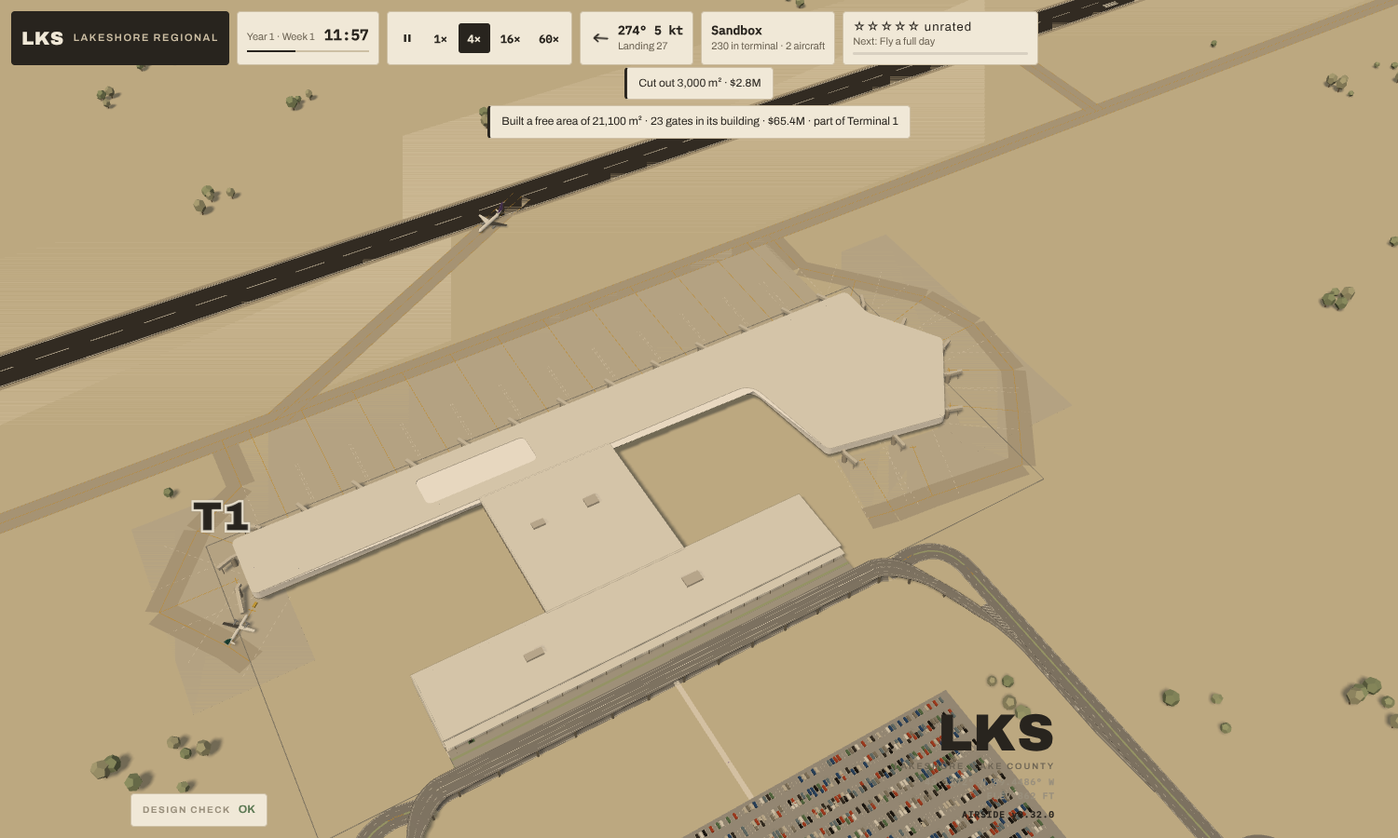
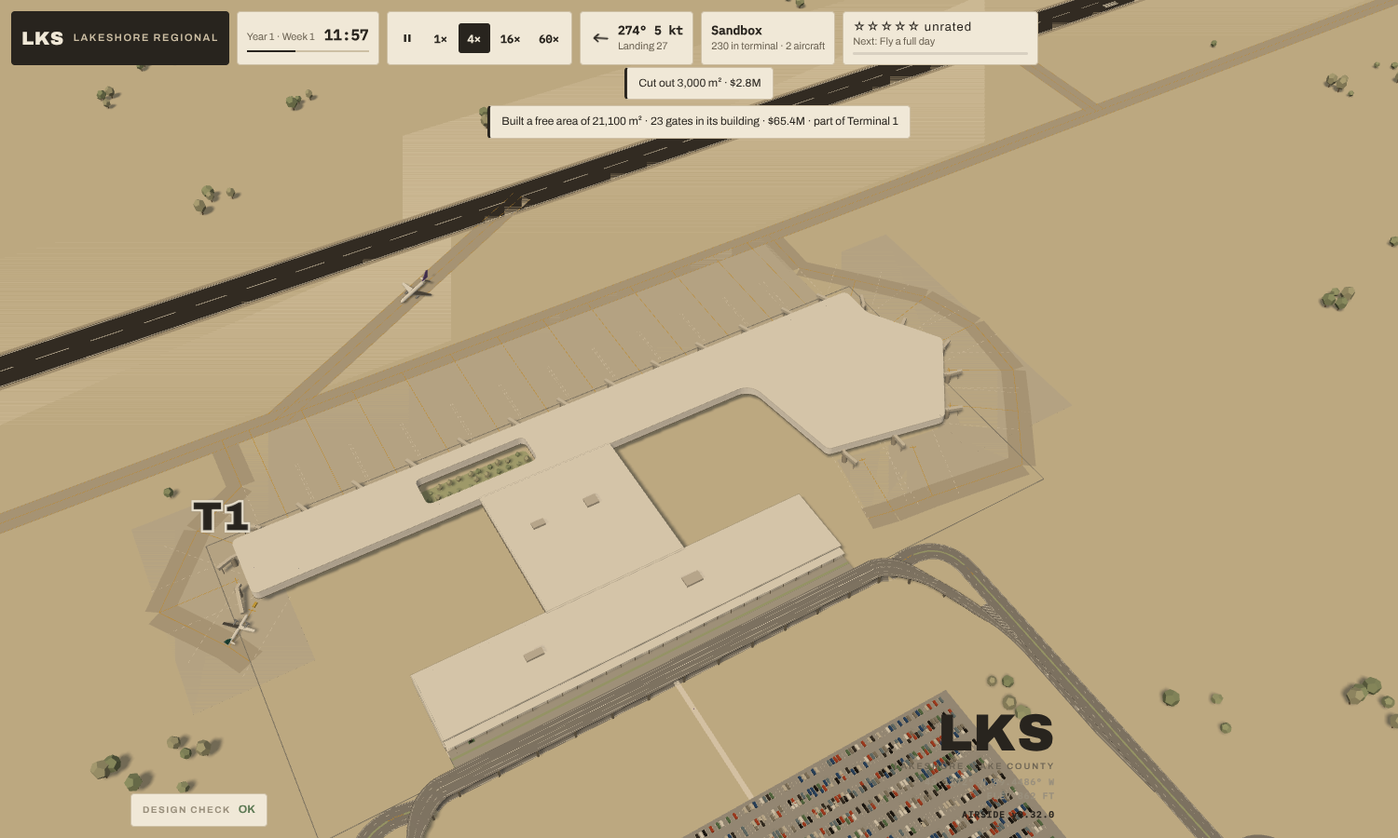
v0.32: fixes from review
Cut-outs that split a building or cover a piece's middle keep every part; a
cut-out is taken by overlap, not by corners, and only cut-outs that take floor
remove lots. Undo of the first cut-out, free-area costs and refunds by true
floor area, taxiways through a free area's empty box, a point inside thin
outlines, landside walls along a free area's edges, open interiors in 3D,
cut-outs going with their building, and hints.

Claude-Session: https://claude.ai/code/session_01XxijruEnEziLvLsYMktvW3

diff --git a/src/ui.ts b/src/ui.ts
@@ -72,7 +72,7 @@ const isWay = (t: Tool): t is WayKind => t === 'taxi' || t === 'road' || t === '
 export interface Controls { speed: number; paused: boolean; hold?: boolean; save(): void; loadSample(): void; clearSite(): void }
 /** How far a grip can take a shape. */
 /** The floor a zone was paid for: a bent pier's or a hub's true outline, not its box. */
-const floorArea = (z: Zone) => (z.bend || z.sides || z.taper ? polyArea(zonePts(z)) : z.w * z.h);
+const floorArea = (z: Zone) => (z.bend || z.sides || z.taper || z.poly ? polyArea(zonePts(z)) : z.w * z.h);
 const GRIP: GripLimits = { minLen: PIER.minLen, minWide: 30, maxWide: 120, minDia: HALL.minDia, maxDia: HALL.maxDia, snapDeg: PIER.snapDeg };
 
 export class UI {
@@ -590,7 +590,7 @@ export class UI {
       const u = this.sim.d.units.get(z.id); const deg = Math.round(((g.rot ?? 0) * 180) / Math.PI);
       const arc = arcOf(g);
       const ends = g.taper ? ` · ${n0(endWidths(g)[0])} m wide at one end, ${n0(endWidths(g)[1])} m at the other` : '';
-      const size0 = g.sides ? `${n0(g.w)} m across` : arc ? `${n0(arc.La)} m round the bend × ${n0(g.h)} m · centreline radius ${n0(arc.R)} m` : `${n0(g.w)} × ${n0(g.h)} m${g.rot && Math.abs(g.rot) > 1e-3 ? ` at ${deg}°` : ''}`;
+      const size0 = g.poly ? `${n0(polyArea(g.poly))} m², ${g.poly.length} corners` : g.sides ? `${n0(g.w)} m across` : arc ? `${n0(arc.La)} m round the bend × ${n0(g.h)} m · centreline radius ${n0(arc.R)} m` : `${n0(g.w)} × ${n0(g.h)} m${g.rot && Math.abs(g.rot) > 1e-3 ? ` at ${deg}°` : ''}`;
       const size = size0 + ends;
       const count = z.type === 'concourse' ? ` · ${u?.count ?? 0} gates` : u ? ` · ${u.max} ${ZONES[z.type].unit}` : '';
       this.hint(ok ? `${size}${count}${cost > 0 ? ` · ${money(cost)}` : cost < 0 ? ` · ${money(-cost * 0.4)} back` : ''} · release to keep, Esc to put it back` : dr.reason!, !ok);
@@ -730,7 +730,7 @@ export class UI {
         const chk = TURNABLE.has(z.type) ? this.placeGeom(z, { ...geomOf(z), x: r.x, y: r.y }) : canPlacePier(this.world, { ...r, level: z.level }, z.id);
         dr.liveOk = chk.ok; dr.reason = chk.reason;
         if (chk.ok) { this.liveSet(z, { ...geomOf(z), x: r.x, y: r.y }); this.ren.ghost = null; } else this.ren.ghost = { kind: 'zone', rect: r, ok: false };
-        this.hint(chk.ok ? `Move the ${z.sides ? 'hub' : TURNABLE.has(z.type) ? ZONES[z.type].short.toLowerCase() : 'pier'} · release to place (free), Esc to put it back` : chk.reason!, !chk.ok);
+        this.hint(chk.ok ? `Move the ${z.sides ? 'hub' : z.poly ? 'free area' : TURNABLE.has(z.type) ? ZONES[z.type].short.toLowerCase() : 'pier'} · release to place (free), Esc to put it back` : chk.reason!, !chk.ok);
         return;
       }
       const r = this.magnetMove({ x: p.x - dr.off!.x, y: p.y - dr.off!.y, w: z.w, h: z.h }, z.level, z.id);
@@ -808,6 +808,7 @@ export class UI {
     return null;
   }
   gripHint(z: Zone, grip: Grip) {
+    if (grip.startsWith('v')) return 'Drag this corner of the free area · its stands, hall and the building it joins follow';
     if (grip === 't') return `Drag to turn the ${ZONES[z.type].short.toLowerCase()} about its centre, in 5° steps · square to the grid it is upright again`;
     if (grip === 'r') return z.sides! >= 24 ? 'Drag to make the hub wider or narrower' : 'Drag a corner to resize and turn the hub';
     if (grip === 'a' || grip === 'b') return 'Drag this end to stretch and swing the pier · the other end stays where it is';
@@ -834,7 +835,7 @@ export class UI {
     // every square metre carries what was paid for it: the fit-out tier, a mezzanine, garage decks
     const rate = (q: Zone) => ZONES[q.type].costPerM2 + (q.tier ? ZONES[q.type].tierCostPerM2 : 0) + (q.mezz ? GROWTH.mezzCostPerM2 * 0.3 : 0) + Math.max(0, (q.floors ?? 1) - 1) * GROWTH.deckCostPerM2;
     const tw = this.twin(z);
-    return (g.sides || g.bend || g.taper ? polyArea(zonePts(g)) : g.w * g.h) * (rate(z) + (tw ? rate(tw) : 0));
+    return (g.sides || g.bend || g.taper || g.poly ? polyArea(zonePts(g)) : g.w * g.h) * (rate(z) + (tw ? rate(tw) : 0));
   }
   // ------------------------------------------------------------ a path of piers (v0.22)
   //
@@ -1239,7 +1240,9 @@ export class UI {
   restore(s: string) {
     this.endLive(false); this.drag = null;
     const o = JSON.parse(s) as { w: World; m: number };
-    Object.assign(this.sim.world, o.w); this.sim.money = o.m;
+    // (the optional lists go first: a snapshot taken before the first cut-out, say, has none to put back)
+    const ws = this.sim.world; delete ws.cuts; delete ws.rounds; delete ws.sites;
+    Object.assign(ws, o.w); this.sim.money = o.m;
     this.ren.selected = null; this.ren.hover = null;
     if (this.ren.focus !== null && !this.world.sites?.some(q => q.id === this.ren.focus)) this.setLod('landside', null);
     this.sim.relayout(); this.refresh(true); this.ctl.save(); this.snap = s;
@@ -1455,6 +1458,11 @@ export class UI {
     } else {
       const r = this.world.runways.find(q => q.id === h.id)!; refund = runwayCost(r.a, r.b) * 0.4; what = 'Runway';
       this.world.runways = this.world.runways.filter(q => q.id !== h.id);
+    }
+    // (v0.32: a cut-out goes with the last building it took floor from; it is not left to cut whatever is built there next)
+    if ((h.kind === 'zone' || h.kind === 'site') && this.world.cuts?.length) {
+      const conc = this.world.zones.filter(z => z.type === 'concourse');
+      this.world.cuts = this.world.cuts.filter(k => conc.some(z => z.level === k.level && zonesOverlap({ ...polyBox(k.pts), poly: k.pts }, z)));
     }
     if (this.sim.moneyOn) this.sim.money += refund;
     if (h.kind !== 'way') this.toast(`${what} demolished · ${money(refund)} back`, 'warn');
@@ -1716,7 +1724,7 @@ export class UI {
       <p class="muted">${def.blurb}</p>
       <dl class="kv">
         ${z.taper ? `<dt>Taper</dt><dd>${n0(endWidths(z)[0])} m wide at its west end, ${n0(endWidths(z)[1])} m at its east end (of its own frame)</dd>` : ''}
-        <dt>Size</dt><dd>${arcOf(z) ? `${n0(arcOf(z)!.La)} m round the bend × ${n0(z.h)} m · radius ${n0(arcOf(z)!.R)} m · ${n0(polyArea(zonePts(z)))} m²` : `${n0(z.w)} × ${n0(z.h)} m · ${n0(floorArea(z))} m²`}</dd>
+        <dt>Size</dt><dd>${arcOf(z) ? `${n0(arcOf(z)!.La)} m round the bend × ${n0(z.h)} m · radius ${n0(arcOf(z)!.R)} m · ${n0(polyArea(zonePts(z)))} m²` : z.poly ? `${n0(floorArea(z))} m² · ${z.poly.length} corners` : `${n0(z.w)} × ${n0(z.h)} m · ${n0(floorArea(z))} m²`}</dd>
         ${(() => { const T = s.d.termOf.get(z.id); return T ? `<dt>Terminal</dt><dd class="${T.active ? '' : 'bad'}">${T.name} · ${T.active ? 'open' : 'closed'}</dd>` : ''; })()}
         ${z.type === 'concourse' ? this.gateSidesHTML(z) : ''}
         ${u.max && z.type !== 'concourse' && !z.auto ? `<dt>${z.type === 'claim' ? 'Carousels built' : def.unit[0].toUpperCase() + def.unit.slice(1)}</dt><dd>

diff --git a/src/render3d.ts b/src/render3d.ts
@@ -464,6 +464,7 @@ export class Renderer3D {
     }
 
     // v0.23: a building of several pieces gets one roof over all of them, to its rounded outline
+    const openSite = (z: Zone) => lod === 'terminal' && (focus === null || siteOf(sim.world, z)?.id === focus || d.termOf.get(z.id)?.site?.id === focus);
     // (v0.32: a building with a free area in it, or a cut-out taken from it, is modelled from its outline alone:
     // a plinth, glass walls round every ring, courtyards included, and the roof, with no boxes of its pieces)
     const freeIds = new Set<number>();
@@ -473,17 +474,18 @@ export class Renderer3D {
       const free = sh.cut || sh.ids.some(id => d.zones.find(z => z.id === id)?.poly);
       if (free) {
         sh.ids.forEach(id => freeIds.add(id));
-        add3(extrudeShape(sh.rings, L1.z0, L1.z0 + 0.7, PLINTH));
-        for (const r of sh.rings) add3(prism(r, L1.z0 + 0.7, L1.z1 - 1.1, GLASS.concourse, this.glassMat));
-        add3(extrudeShape(sh.rings, L1.z1 - 1.1, L1.z1 - 0.3, ROOF));
+        const open = sh.ids.some(id => { const q = d.zones.find(z => z.id === id); return !!q && openSite(q); });
+        // (opened up: the floor to the outline, no roof, so the fit-out shows)
+        add3(extrudeShape(sh.rings, L1.z0, L1.z0 + (open ? 0.5 : 0.7), open ? MOD_COL.concourse : PLINTH));
+        for (const r of sh.rings) add3(prism(r, L1.z0 + 0.7, L1.z1 - 1.1, GLASS.concourse, this.glassMat, false));   // (walls only: a fan cap is wrong on a concave outline)
+        if (!open) add3(extrudeShape(sh.rings, L1.z1 - 1.1, L1.z1 - 0.3, ROOF));
       } else if (sh.ids.length > 1) add3(extrudeShape(sh.rings, L1.z1 - 0.5, L1.z1 + 0.25, ROOF));
     }
     // ---- buildings: a glazed box under a white roof, or opened up (glass walls, floor and fit-out)
-    const openSite = (z: Zone) => lod === 'terminal' && (focus === null || siteOf(sim.world, z)?.id === focus || d.termOf.get(z.id)?.site?.id === focus);
     const solid: Box[] = []; const glazing: Box[] = []; const see: Box[] = []; const fit: Box[] = []; const roofs: Box[] = [];
     for (const z of d.zones) {
       if (!ZONES[z.type].terminal || rising.has(z.id)) continue;
-      if (freeIds.has(z.id)) continue;
+      if (freeIds.has(z.id) && !openSite(z)) continue;   // (its envelope is the outline's; opened up, its floor and fit-out are its own)
       const L = LEVELS[z.level];
       const sel = this.ren.selected?.kind === 'zone' && this.ren.selected.id === z.id;
       if (z.sides) {
@@ -512,10 +514,11 @@ export class Renderer3D {
         continue;
       }
       const c = sel ? '#8FB0C6' : MOD_COL[z.type];
-      if (z.level > this.ren.level) { see.push({ ...z, z0: L.z0, z1: L.z1 - 0.4, c }); continue; }
-      solid.push({ ...z, z0: L.z0, z1: L.z0 + 0.5, c });
+      const own = !freeIds.has(z.id);   // (a piece of a free-drawn or cut building has no box of its own: the outline is drawn)
+      if (z.level > this.ren.level) { if (own) see.push({ ...z, z0: L.z0, z1: L.z1 - 0.4, c }); continue; }
+      if (own) solid.push({ ...z, z0: L.z0, z1: L.z0 + 0.5, c });
       if (z.level < this.ren.level) continue;
-      see.push({ ...z, z0: L.z0 + 0.5, z1: L.z1 - 0.4, c });
+      if (own) see.push({ ...z, z0: L.z0 + 0.5, z1: L.z1 - 0.4, c });
       const f = d.frames.get(z.id);
       for (const it of f?.items ?? []) {
         const h = ITEM_H[it.k]; if (!h || !it.closed) continue;
@@ -860,15 +863,17 @@ function slab(a: Pt, b: Pt, w: number, z0: number, z1: number, c: string, ramp: 
   return m;
 }
 /** An upright prism on a convex outline: walls and a flat top. */
-function prism(pts: Pt[], z0: number, z1: number, c: string, material?: THREE.Material) {
+function prism(pts: Pt[], z0: number, z1: number, c: string, material?: THREE.Material, cap = true) {
   const pos: number[] = []; const idx: number[] = []; const n = pts.length;
   for (let i = 0; i < n; i++) {
     const a = pts[i], b = pts[(i + 1) % n]; const k = pos.length / 3;
     pos.push(a.x, z0, a.y, b.x, z0, b.y, b.x, z1, b.y, a.x, z1, a.y); idx.push(k, k + 2, k + 1, k, k + 3, k + 2);
   }
-  const t0 = pos.length / 3; let cx = 0, cy = 0; for (const p of pts) { cx += p.x / n; cy += p.y / n; }
-  pos.push(cx, z1, cy); for (const p of pts) pos.push(p.x, z1, p.y);
-  for (let i = 0; i < n; i++) idx.push(t0, t0 + 1 + ((i + 1) % n), t0 + 1 + i);
+  if (cap) {
+    const t0 = pos.length / 3; let cx = 0, cy = 0; for (const p of pts) { cx += p.x / n; cy += p.y / n; }
+    pos.push(cx, z1, cy); for (const p of pts) pos.push(p.x, z1, p.y);
+    for (let i = 0; i < n; i++) idx.push(t0, t0 + 1 + ((i + 1) % n), t0 + 1 + i);
+  }
   const g = new THREE.BufferGeometry(); g.setAttribute('position', new THREE.Float32BufferAttribute(pos, 3)); g.setIndex(idx); g.computeVertexNormals();
   const m = new THREE.Mesh(g, material ?? new THREE.MeshLambertMaterial({ color: c, side: THREE.DoubleSide })); m.castShadow = true; m.receiveShadow = true;
   return m;

diff --git a/src/shell.ts b/src/shell.ts
@@ -15,8 +15,8 @@ import { Shaped, zonePts, heart } from './shapes';
 
 /** `rings`: the outline, outer boundaries and holes together (fill with the even-odd rule). `ids`: the zones it is made of. */
 export interface Shell { level: number; ids: number[]; rings: Pt[][]; outer: Pt[];
-  /** v0.32: a cut-out takes something away from it (so its outline is no longer just its pieces'). */
-  cut?: boolean }
+  /** v0.32: a cut-out takes something away from it (so its outline is no longer just its pieces'), and which. */
+  cut?: boolean; cuts?: number[] }
 /** v0.32: a cut-out: a polygon taken away from whatever building it is drawn over, on one level. Saved with the world. */
 export interface Cut { id: number; level: number; pts: Pt[] }
 export const SHELL = { fillet: 16, ease: 5, scale: 100 };   // inside-corner radius, outside-corner radius (m); Clipper works in whole numbers
@@ -59,29 +59,35 @@ export function shellsOf(zones: (Shaped & { id: number; type: string; level: num
       paths = offset(offset(paths, -SHELL.ease), SHELL.ease);
       if (!paths.length) continue;
       const raw = fromPath(ex.outer);
-      const owned = zs.filter(z => !taken.has(z.id) && inPoly(heart(z), raw));
-      // v0.32: then take away every cut-out on this level that reaches it, after the rounding (so a narrow cut-out is
-      // not filled back in by the fillet), and ease the corners the cut-out made
-      const hit = mine.filter(k => owned.some(z => k.pts.some(p => inPoly(p, zonePts(z))) || zonePts(z).some(p => inPoly(p, k.pts))));
-      const parts = hit.length ? exec(paths, hit.map(k => toPath(k.pts)), ClipperLib.ClipType.ctDifference) : [{ outer: null as unknown as IPath, holes: [] }];
-      for (const part of parts) {
-        let ps: IPath[] = paths;
-        if (hit.length) {
-          ps = [part.outer, ...part.holes];
-          ps = offset(offset(ps, SHELL.ease), -SHELL.ease);
-          ps = offset(offset(ps, -SHELL.ease), SHELL.ease);
-          if (!ps.length) continue;
-        }
+      const owned = zs.filter(z => !taken.has(z.id) && inPoly(heart(z), raw)); owned.forEach(z => taken.add(z.id));
+      // v0.32: then take away every cut-out on this level whose floor overlaps it, after the rounding (so a narrow
+      // cut-out is not filled back in by the fillet), and ease the corners the cut-out made
+      const hit = mine.filter(k => owned.some(z => overlapArea([toPath(zonePts(z))], [toPath(k.pts)]) > 1));
+      if (!hit.length) { const rings = paths.map(fromPath); if (owned.length) out.push({ level, ids: owned.map(z => z.id), rings, outer: rings.reduce((m, r) => (Math.abs(area(r)) > Math.abs(area(m)) ? r : m)) }); continue; }
+      // a cut-out may split the building: each part with floor is a building of its own, made of every piece with
+      // floor in it (a piece cut in two is in both), the part holding most of a piece first
+      const parts: { ids: number[]; rings: Pt[][]; outer: Pt[]; a: number }[] = [];
+      for (const part of exec(paths, hit.map(k => toPath(k.pts)), ClipperLib.ClipType.ctDifference)) {
+        let ps: IPath[] = [part.outer, ...part.holes];
+        ps = offset(offset(ps, SHELL.ease), -SHELL.ease);
+        ps = offset(offset(ps, -SHELL.ease), SHELL.ease);
+        if (!ps.length) continue;
         const rings = ps.map(fromPath);
         const outer = rings.reduce((m, r) => (Math.abs(area(r)) > Math.abs(area(m)) ? r : m));
-        // (a piece belongs to the part its heart is in, or else the first part it reaches)
-        const ids = owned.filter(z => !taken.has(z.id) && (inPoly(heart(z), outer) || zonePts(z).some(p => inPoly(p, outer)))).map(z => z.id);
-        ids.forEach(i => taken.add(i));
-        if (ids.length) out.push({ level, ids, rings, outer, ...(hit.length ? { cut: true } : {}) });
+        const ids = owned.filter(z => overlapArea([toPath(zonePts(z))], ps) > 1).map(z => z.id);
+        if (ids.length) parts.push({ ids, rings, outer, a: Math.abs(area(outer)) });
       }
+      parts.sort((p, q) => q.a - p.a);
+      for (const p of parts) out.push({ level, ids: p.ids, rings: p.rings, outer: p.outer, cut: true, cuts: hit.map(k => k.id) });
     }
   }
   return out;
+}
+/** The area (m²) two sets of paths have in common. */
+function overlapArea(a: IPath[], b: IPath[]) {
+  const c = new ClipperLib.Clipper(); c.AddPaths(a, ClipperLib.PolyType.ptSubject, true); c.AddPaths(b, ClipperLib.PolyType.ptClip, true);
+  const sol = new ClipperLib.Paths(); c.Execute(ClipperLib.ClipType.ctIntersection, sol, ClipperLib.PolyFillType.pftNonZero, ClipperLib.PolyFillType.pftNonZero);
+  return (sol as IPath[]).reduce((t, p) => t + ClipperLib.Clipper.Area(p), 0) / (SHELL.scale * SHELL.scale);
 }
 function area(r: Pt[]) { let a = 0; for (let i = 0; i < r.length; i++) { const p = r[i], q = r[(i + 1) % r.length]; a += p.x * q.y - q.x * p.y; } return a / 2; }
 

diff --git a/src/world.ts b/src/world.ts
@@ -66,7 +66,7 @@ export interface World { zones: Zone[]; runways: Runway[]; ways: Way[]; nextId: 
   /** v0.32: cut-outs: polygons taken away from the buildings they are drawn over. */
   cuts?: Cut[] }
 
-export const newWorld = (): World => ({ zones: [], runways: [], ways: [], nextId: 1, sites: [], rounds: [] });
+export const newWorld = (): World => ({ zones: [], runways: [], ways: [], nextId: 1, sites: [], rounds: [], cuts: [] });
 
 /** Bring older saves up to date. */
 /** v0.32: the budget of a free-drawn area: nothing carved, its long axis its box's. */
@@ -402,7 +402,7 @@ export function canPlacePier(world: World, z: { x: number; y: number; w: number;
 }
 /** Does a segment pass through a turned zone (2 m inside its outline)? */
 function segInZone(z: Zone, a: Pt, b: Pt): boolean {
-  if (z.sides || z.bend || z.taper) { const pts = zonePts(z); return inZone(a, z, -2) || inZone(b, z, -2) || pts.some((p, i) => segsIntersect(a, b, p, pts[(i + 1) % pts.length])); }
+  if (z.sides || z.bend || z.taper || z.poly) { const pts = zonePts(z); return inZone(a, z, -2) || inZone(b, z, -2) || pts.some((p, i) => segsIntersect(a, b, p, pts[(i + 1) % pts.length])); }
   const la = toLocal(z, a), lb = toLocal(z, b);
   return rectSegDist(inset(z, 2), la, lb) === 0;
 }
@@ -514,7 +514,7 @@ export function derive(source: World): Derived {
   const keep: { a: Pt; b: Pt }[] = [];
   for (const w of [...source.ways.filter(q => q.kind !== 'taxi'), ...fore, ...laid, ...laidDrives]) for (const [a, b] of waySegs(w)) keep.push({ a, b });
   // v0.23: one outline per building; its pieces share a gate letter and one run of gate numbers
-  const shells = shellsOf(source.zones, world.cuts ?? []); const shellOf = new Map<number, Shell>(); for (const sh of shells) for (const id of sh.ids) shellOf.set(id, sh);
+  const shells = shellsOf(source.zones, world.cuts ?? []); const shellOf = new Map<number, Shell>(); for (const sh of shells) for (const id of sh.ids) if (!shellOf.has(id)) shellOf.set(id, sh);   // (a piece a cut-out splits is in each part; it is named by the largest)
   const group = new Map<number, number>(); shells.forEach((sh, i) => { for (const id of sh.ids) group.set(id, i); });
   const junctions = junctionsOf(shells, source.zones);
   // (v0.32: and a building a cut-out takes from, or one with a free-drawn piece: its outline is not its pieces')
@@ -593,7 +593,8 @@ export function derive(source: World): Derived {
   }
   // v0.32: nothing stands where a cut-out has taken the floor away: lots and fit-out under it go, and the spine and
   // moving walkways stop at its edge (as at a junction space)
-  const cutJ = (world.cuts ?? []).map(k => ({ level: k.level, rings: [k.pts] } as unknown as Junction));
+  const took = new Set(shells.flatMap(sh => sh.cuts ?? []));   // (only the cut-outs that took floor from a building)
+  const cutJ = (world.cuts ?? []).filter(k => took.has(k.id)).map(k => ({ level: k.level, rings: [k.pts] } as unknown as Junction));
   if (cutJ.length) for (const [id, list] of shops) {
     const z = world.zones.find(q => q.id === id)!; const ks = cutJ.filter(k => k.level === z.level); if (!ks.length) continue;
     shops.set(id, list.filter(sh => !ks.some(k => inJunction(polyCentre(sh.pts), k))));

diff --git a/src/render.ts b/src/render.ts
@@ -669,6 +669,11 @@ export class Renderer {
     }
     // v0.25: the spaces a building keeps for itself where its pieces meet: a hall, a food court or a garden, and
     // courtyards open to the sky. Drawn over the floor, under the labels.
+    // (v0.32: a cut-out that takes no floor, left where a building was moved away, is drawn dashed so it can be found)
+    if (!tilted && this.lod !== 'airfield' && sim.world.cuts?.length) {
+      const took = new Set(sim.d.shells.flatMap(sh => sh.cuts ?? []));
+      for (const k of sim.world.cuts) if (!took.has(k.id)) { g.setLineDash([6, 4]); g.strokeStyle = 'rgba(176,71,43,0.6)'; g.lineWidth = 1.2; this.path(k.pts, 0); g.stroke(); g.setLineDash([]); }
+    }
     if (!tilted && this.lod !== 'airfield') for (const j of sim.d.junctions) {
       if (j.level !== active) continue;
       const court = j.kind === 'court', green = court || j.kind === 'garden'; const zz = this.cam.zoom;
@@ -819,6 +824,7 @@ export class Renderer {
 
   /** Commercial heatmap: today's footfall along the spine, bin by bin, as a band on the concourse centreline. */
   flowBand(sim: Sim, zn: Zone, top: number) {
+    if (zn.poly) return;   // (a free area has no spine to count along)
     const B = sim.d.budgets.get(zn.id); const f = sim.flowDay.get(zn.id) ?? zn.flow; if (!B || !f) return;
     const max = Math.max(1, ...f.w);
     const bin = COMMERCE.binM;
@@ -1013,7 +1019,7 @@ export class Renderer {
 
   /** A roof plan for a module seen as massing: parapet line, a clerestory down a concourse, plant enclosures. */
   roofPlan(zn: Zone, top: number) {
-    const z = this.cam.zoom; if (z < 0.2) return;
+    const z = this.cam.zoom; if (z < 0.2 || zn.poly) return;
     const g = this.ctx; const k = Math.min(2.5, 1.2 / Math.max(z, 0.3));
     g.strokeStyle = 'rgba(244,237,223,0.55)'; g.lineWidth = 1;
     if (!this.shellIds.has(zn.id) || this.tilt > 0.02) { const F = frameOf(zn); this.path(zn.sides ? this.rectPts({ x: zn.x + k, y: zn.y + k, w: zn.w - 2 * k, h: zn.h - 2 * k, rot: zn.rot, sides: zn.sides }) : this.part(zn, { x: F.x + k, y: F.y + k, w: F.w - 2 * k, h: F.h - 2 * k }), top); g.stroke(); }

diff --git a/src/sim.ts b/src/sim.ts
@@ -5,7 +5,7 @@ import { Pt, add, mul, dist, polyLen, along, rng, clamp, center } from './geom';
 import { CLASSES, AcClass, Cls, AIRLINES, Airline, Level, SITE, TUNE, ZONES, ZoneType, ShopType, COMMERCE, GROWTH, UNLOCKS, Unlock, UnlockId, WEATHER, WeatherKind, Offer, Deal, ROADS, MOVER } from './config';
 import { World, Derived, Zone, Gate, RunwayInfo, Wind, Route, Terminal, Shop, Flow, derive, runwayUsable, unitsOf, Frame } from './world';
 import { wayLen, isRingRef } from './ways';
-import { toLocal, clampInto, frameOf } from './shapes';
+import { toLocal, clampInto, frameOf, polyArea } from './shapes';
 import { flowBins, newFlow, tenantsOf } from './commerce';
 import { Goal, checkGoals } from './goals';
 import { DJ, dijkstra, trace, nearestNode } from './net';
@@ -1304,7 +1304,7 @@ export class Sim {
     const s = this.stats;
     const staffN = this.staff.agents + this.staff.screeners + this.staff.handlers + (this.staff.officers ?? 0);
     s.cost.staff = staffN * TUNE.wagePerDay;
-    s.cost.upkeep = this.world.zones.reduce((u, z) => u + z.w * z.h * ZONES[z.type].upkeepPerM2 * (z.type === 'parking' ? 1 + 0.6 * ((z.floors ?? 1) - 1) : z.type === 'hotel' ? 0 : 1), 0)
+    s.cost.upkeep = this.world.zones.reduce((u, z) => u + (z.poly ? polyArea(z.poly) : z.w * z.h) * ZONES[z.type].upkeepPerM2 * (z.type === 'parking' ? 1 + 0.6 * ((z.floors ?? 1) - 1) : z.type === 'hotel' ? 0 : 1), 0)
       + this.d.runways.reduce((u, r) => u + r.length * 4, 0)
       + this.d.trainLinks.reduce((u, l) => u + (l.apm ? dist(l.a, l.b) * MOVER.upkeepPerM : 0), 0)
       + this.world.ways.reduce((u, w) => u + wayLen(w) * (w.kind === 'taxi' ? 1.2 : w.kind === 'road' ? 0.8 : 0.2), 0);

diff --git a/src/gates.ts b/src/gates.ts
@@ -266,7 +266,12 @@ function selfAprons(world: World, runways: RunwayInfo[], runwayWidth: (len: numb
     const others = outlines.filter(o => !inShell.has(o.z.id));
     // a straight wall that a processing module stands against is landside along its whole length, as before
     const landWalls: { a: Pt; b: Pt }[] = [];
-    for (const q of zs) if (!q.sides) for (const sd of sidesOf(q)) {
+    // (a free area's walls are its own edges, each facing out, not its bounding box's)
+    const wallsOf = (q: Zone): { a: Pt; b: Pt; out: Pt; curve?: number }[] => !q.poly ? sidesOf(q) : q.poly.map((a, i) => {
+      const b = q.poly![(i + 1) % q.poly!.length]; const d = norm(sub(b, a)); let out = { x: d.y, y: -d.x };
+      if (pointInPoly(add(lerpPt(a, b, 0.5), out), q.poly!)) out = mul(out, -1); return { a, b, out };
+    });
+    for (const q of zs) if (!q.sides) for (const sd of wallsOf(q)) {
       if (sd.curve !== undefined) continue;
       const al0 = norm(sub(sd.b, sd.a)); const thin = [add(sd.a, add(al0, mul(sd.out, 0.5))), add(sd.b, add(mul(al0, -1), mul(sd.out, 0.5))), add(sd.b, add(mul(al0, -1), mul(sd.out, 6))), add(sd.a, add(al0, mul(sd.out, 6)))];
       if (others.some(o => LANDSIDE.has(o.z.type) && polyArea(polyClip(o.pts, thin)) > 2)) landWalls.push({ a: sd.a, b: sd.b });

diff --git a/src/shapes.ts b/src/shapes.ts
@@ -60,6 +60,8 @@ export function poleOf(poly: Pt[]): Pt {
     const p = { x: b.x + (b.w * i) / 16, y: b.y + (b.h * j) / 16 }; if (!inPoly(p, poly)) continue;
     const d = edgeDist(p, poly); if (d > bd) { bd = d; best = p; }
   }
+  // (a thin shape the grid misses: the middle of its largest triangle, which is always inside)
+  if (bd < 0) { const t = triangulate(poly).reduce((m, q) => (Math.abs(signedArea(q)) > Math.abs(signedArea(m)) ? q : m)); best = { x: (t[0].x + t[1].x + t[2].x) / 3, y: (t[0].y + t[1].y + t[2].y) / 3 }; }
   poles.set(poly, best); return best;
 }
 /** Is a polygon simple (no edge crossing another)? */

diff --git a/README.md b/README.md
@@ -372,7 +372,7 @@ The sim never reads the renderer, and the renderer never writes the sim. That sp
 - Halls turn but do not yet bend into a curve; a curved forecourt needs curbs that follow a curved road, which they do not do yet. A hall that is turned keeps its upright neighbours upright: turn security too, or overlap them, to keep them joined.
 - The figures for the lane and taper lengths are from memory of AASHTO's tables, not checked against the book.
 - A forecourt link that runs on in line with the frontage road, or turns a second corner on its way to a road, keeps its square corners. The forecourt is still straight (it does not follow a curved or angled hall), and the deck has no lane markings in 3D. In 3D a road's surface can vanish when the camera is very close to it (an older fault).
-- A free area has no holdrooms or planned lots of its own yet: it is one open hall, its gates' passengers wait on its open floor, and its stands are laid along the merged outline. A cut-out applies to the departures level only and cannot yet be reshaped by its corners (fill it in and draw it again). The tilted plan view still draws the pieces as before, without cut-outs.
+- A free area has no holdrooms or planned lots of its own yet: it is one open hall, its gates' passengers wait on its open floor, and its stands are laid along the merged outline. A cut-out applies to the departures level only and cannot yet be reshaped by its corners (fill it in and draw it again). It stays where it was drawn when its building is moved (it is then drawn dashed, and goes when its building is demolished). Passengers still walk across a courtyard or notch as if it were floor, and a lot straddling a cut-out's edge is kept if its middle is outside. The tilted plan view still draws the pieces as before, without cut-outs.
 - A food court's counters are kiosk-sized grab-and-go lots; there are no sit-down restaurants in a food court yet, and its seating is drawn but not modelled seat by seat. A gate whose holdroom fell in a hall keeps its capacity but has no seats drawn. Halls, food courts and gardens under the roof are not shown in 3D or in the tilted plan view; courtyards are shown in 3D.
 - The merged outline carries the stands, but interiors, selection and the tilted plan view still work on the separate pieces, so a rounded corner can show a sliver of floor with nothing planned on it, a gate at a filled-in junction can have its door a few metres from its holdroom, roof glazing lines of two pieces cross at a junction, and the Operations panel still counts pieces as concourses. Halls and security keep their own square outlines.
 - On a building of several pieces a gate is named by where it is along its wall, so its name can change when that piece is reshaped, and gates switched off before v0.24 on such buildings may now refer to a different stand. The inspector's side-by-side gate list is empty for such pieces. A one-piece building keeps its gate names.
